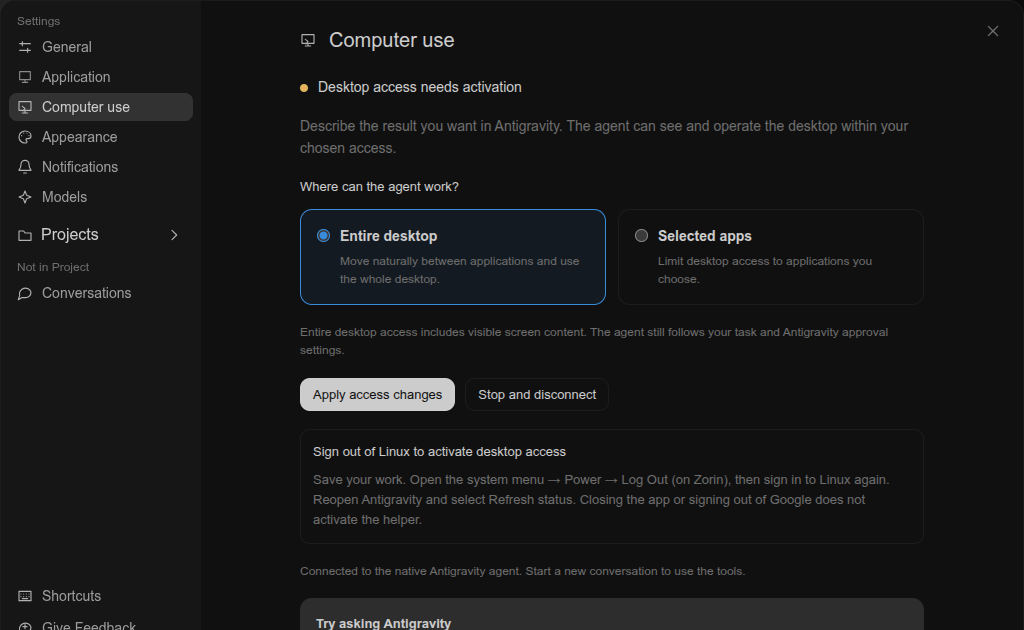
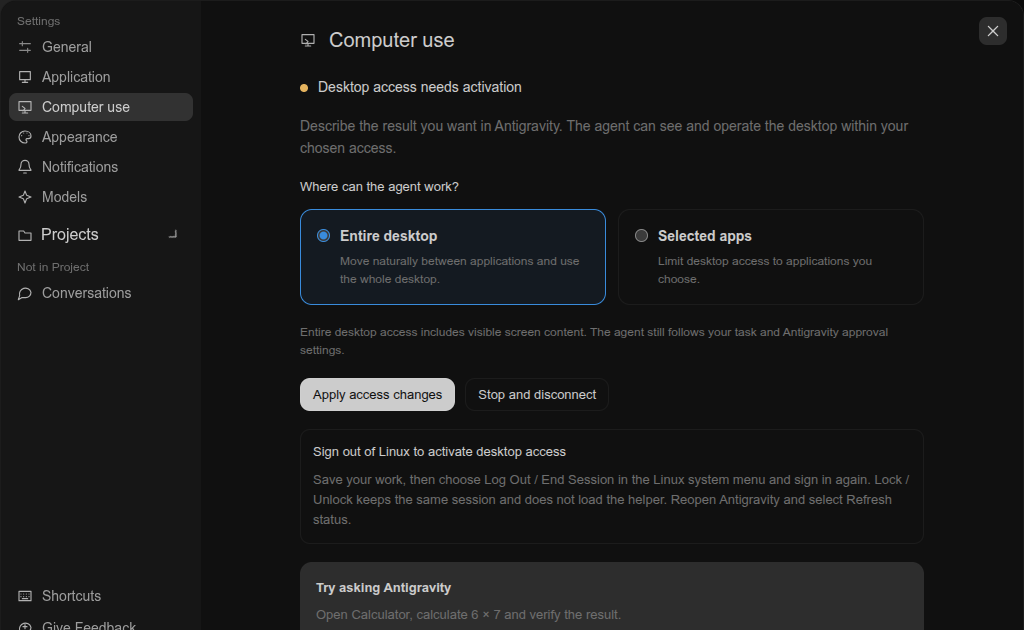
Clarify Linux logout and make computer-use removal explicit

Changed region(s): [[0.2812, 0.8746, 0.9062, 1.0], [0.3125, 0.754, 0.875, 0.8444], [0.9375, 0.0302, 1.0, 0.0905]]

diff --git a/common/computer-use-settings.js b/common/computer-use-settings.js
@@ -1,7 +1,7 @@
 /* Guided desktop access in a dedicated native Settings page. */
 (() => {
  'use strict';
- const VERSION = '1.3.0';
+ const VERSION = '1.3.1';
  if (globalThis.__AGComputerUse?.version === VERSION) return;
  globalThis.__AGComputerUse?.destroy();
  const i18n = globalThis.__AGPAI18n;
@@ -10,7 +10,7 @@
  const pending = new Map();
  let section, state = {}, busy = false, draft = typeof savedDraft === 'string' ? savedDraft : savedDraft?.apps;
  let scopeDraft = savedDraft?.scope, nativeRefresh = null, scheduled = false, destroyed = false, refreshing = false;
- let confirmRemoval = false, checksSignature = '';
+ let checksSignature = '';
  const errors = {
   selectApps: 'Choose at least one application executable.', invalidApp: 'Use an existing absolute executable path for each application.',
   serverConflict: 'This MCP server name is already used. Resolve the conflict in native MCP settings.',
@@ -35,23 +35,23 @@
   const working = busy || !!state.operation;
   t('[data-cu-connection]', state.operation === 'uninstall' ? 'Removing computer use…' : state.operation ? 'Preparing computer use…' : state.enabled ? state.needsHelper ? 'Desktop access needs activation' : 'Computer use is enabled' : 'Your agent, across your desktop');
   t('[data-cu-summary]', state.enabled ? 'Describe the result you want in Antigravity. The agent can see and operate the desktop within your chosen access.' : 'Let Antigravity work across your apps: explore, click, type and verify the result.');
-  t('[data-cu-driver]', state.installed ? 'Cua Driver {version} installed' : 'The setup installs the current reviewed Cua Driver for you.', {version: state.driverVersion || '—'});
   const loginRequired = state.needsHelper && state.helperInstalled && ['signInRequired', 'unknown'].includes(state.helperState);
   t('[data-cu-platform]', loginRequired ? 'Sign out of Linux to activate desktop access' : state.needsHelper ? state.helperInstalled ? 'The GNOME helper is disabled or could not load. Select Repair desktop helper, then refresh status.' : 'The setup will install the GNOME desktop helper. A new sign-in is required to activate it.' : state.session === 'wayland' ? 'Wayland: some apps require foreground input or additional desktop permission.' : state.experimental ? 'Windows support is experimental. Keep the target app visible in your desktop session.' : 'Desktop permissions may be requested when you first use an application.');
   section.querySelector('[data-cu-login-steps]').hidden = !loginRequired;
-  t('[data-cu-protocol]', state.protocol?.ok ? 'MCP handshake passed. Desktop actions still need verification.' : 'MCP connection has not been checked.');
   t('[data-cu-operation]', state.error ? (errors[state.error] || errors.operationFailed) : working ? 'Working…' : state.enabled ? nativeRefresh ? 'Connected to the native Antigravity agent. Start a new conversation to use the tools.' : 'Start a new agent conversation after connecting. If tools are missing, refresh native MCP settings.' : 'Choose access and enable computer use. Existing Antigravity approvals remain in effect.');
   t('[data-cu-connect]', working ? 'Preparing computer use…' : state.enabled ? 'Apply access changes' : 'Enable computer use');
   t('[data-cu-removal]', state.removal?.skillRetained ? 'Computer use removed. Your locally edited skill was kept; rename or remove it before setting up again.' : 'Computer use removed. Select Enable computer use for a fresh setup.');
   section.querySelector('[data-cu-removal]').hidden = !state.removal;
-  section.querySelector('[data-cu-confirm-removal]').hidden = !confirmRemoval;
   const checks = globalThis.__AGPAComputerUseChecks(state, globalThis.__AGNativeMcp?.status());
-  const checksKey = JSON.stringify([checks, i18n.language]);
+  const checksKey = JSON.stringify([checks, i18n.language, state.driverVersion, loginRequired]);
   if (checksKey !== checksSignature) {
    checksSignature = checksKey;
    section.querySelector('[data-cu-checks]').replaceChildren(...checks.map(check => {
     const icon = node('span', {class: `agpa-cu-check-icon ${check.passed ? 'passed' : 'pending'}`, 'aria-hidden': 'true', text: check.passed ? '✓' : '●'});
-    return node('li', {'data-cu-check-id': check.id, 'data-passed': String(check.passed)}, icon, node('span', {text: check.label}), node('span', {class:'agpa-cu-check-state', text: check.passed ? 'Passed' : 'Pending'}));
+    const label = node('span', {class:'agpa-cu-check-label'}, node('span', {text:check.label}));
+    if (check.id === 'driver' && state.installed) label.append(node('span', {class:'agpa-cu-check-version',text:state.driverVersion}));
+    if (check.id === 'desktop' && loginRequired) label.append(node('span', {class:'agpa-cu-check-help',text:'Log out of Linux, then sign back in. Locking and unlocking the screen is not enough.'}));
+    return node('li', {'data-cu-check-id': check.id, 'data-passed': String(check.passed)}, icon, label, node('span', {class:'agpa-cu-check-state', text: check.passed ? 'Passed' : 'Pending'}));
    }));
   }
   for (const input of section.querySelectorAll('[name=agpa-cu-scope]')) {input.checked = input.value === scope();input.disabled = working;}
@@ -132,15 +132,17 @@
    button.addEventListener('click', () => act(action));advancedActions.append(button);
   }
   const remove = node('button', {type:'button',class:'agpa-app-icon-option','data-cu-remove':'',text:'Remove computer use…'});
-  remove.addEventListener('click', () => {confirmRemoval = true;paint();section.querySelector('[data-cu-confirm-removal]').scrollIntoView({block:'nearest'});});
+  remove.addEventListener('click', () => {removal.showModal();cancel.focus();});
   advancedActions.append(remove);
   const cancel = node('button', {type:'button',class:'agpa-app-icon-option',text:'Cancel'});
-  cancel.addEventListener('click', () => {confirmRemoval = false;paint();});
-  const confirm = node('button', {type:'button',class:'agpa-app-icon-option','data-cu-remove-confirm':'',text:'Remove computer use'});
-  confirm.addEventListener('click', () => {confirmRemoval = false;act('uninstall');});
-  const removal = node('div', {class:'agpa-cu-notice','data-cu-confirm-removal':'',hidden:''},
+  cancel.addEventListener('click', () => removal.close());
+  const confirm = node('button', {type:'button',class:'agpa-app-icon-option agpa-cu-danger','data-cu-remove-confirm':'',text:'Remove computer use'});
+  confirm.addEventListener('click', () => {removal.close();act('uninstall');});
+  const removal = node('dialog', {class:'agpa-cu-confirm','data-cu-confirm-removal':'','aria-labelledby':'agpa-cu-remove-title','aria-describedby':'agpa-cu-remove-description'},
+   node('h3',{id:'agpa-cu-remove-title',text:'Remove computer use?'}),
+   node('div',{id:'agpa-cu-remove-description'},
    node('p',{text:'Remove the plugin-managed driver, MCP entry, generated skill and setup preferences? You can then enable computer use again to reinstall.'}),
-   node('p',{class:'agpa-cu-muted',text:'Other MCP servers, conversations and edited skills are kept. The shared GNOME helper and other Cua installations are kept.'}),
+   node('p',{class:'agpa-cu-muted',text:'Other MCP servers, conversations and edited skills are kept. The shared GNOME helper and other Cua installations are kept.'})),
    node('div',{class:'agpa-patch-actions'}, cancel,confirm));
   const examples = node('div', {class: 'agpa-cu-examples'}, node('strong', {text: 'Try asking Antigravity'}),
    node('p', {text: 'Open Calculator, calculate 6 × 7 and verify the result.'}),
@@ -151,11 +153,12 @@
    node('p', {class: 'agpa-cu-muted', text: 'Entire desktop access includes visible screen content. The agent still follows your task and Antigravity approval settings.'}),
    node('div', {class: 'agpa-patch-actions'}, enable, stop),
    node('div', {class: 'agpa-cu-notice'}, node('p', {'data-cu-platform': ''}),
-    node('p', {'data-cu-login-steps': '', text: 'Save your work. Open the system menu → Power → Log Out (on Zorin), then sign in to Linux again. Reopen Antigravity and select Refresh status. Closing the app or signing out of Google does not activate the helper.'})),
-   node('p', {class: 'agpa-app-icon-status', 'data-cu-operation': '', role: 'status', 'aria-live': 'polite'}), examples,
+    node('p', {'data-cu-login-steps': '', text: 'Save your work, then choose Log Out / End Session in the Linux system menu and sign in again. Lock / Unlock keeps the same session and does not load the helper. Reopen Antigravity and select Refresh status.'})),
+   examples,
    node('details', {class: 'agpa-cu-advanced'}, node('summary', {text: 'Connection details'}),
     node('ul', {class:'agpa-cu-checks','data-cu-checks':'','aria-label':'Connection checks'}),
-    node('p', {class: 'agpa-cu-muted', 'data-cu-driver': ''}), node('p', {class: 'agpa-cu-muted', 'data-cu-protocol': ''}), advancedActions,
+    advancedActions,
+    node('p', {class: 'agpa-app-icon-status', 'data-cu-operation': '', role: 'status', 'aria-live': 'polite'}),
     node('p', {class:'agpa-cu-muted',text:'Test screen capture reads the display once and discards the image. It does not test mouse or keyboard input.'}),
     removal,node('p',{class:'agpa-cu-notice','data-cu-removal':'',role:'status'}),
     node('p', {class: 'agpa-cu-muted', text: 'Available to the native Antigravity agent. The embedded Gemini website does not receive these tools.'}),
@@ -188,22 +191,35 @@
   .agpa-cu-notice [data-cu-platform]{color:var(--foreground,#ddd);font-weight:500}.agpa-cu-notice [data-cu-login-steps]{margin-top:8px}
   .agpa-cu-examples{padding:16px;border-radius:12px;background:var(--secondary,#1d1d1d);display:flex;flex-direction:column;gap:8px}
   .agpa-cu-examples p{color:var(--muted-foreground,#aaa)}.agpa-cu-advanced{border-top:1px solid var(--border,#353535);padding-top:16px}
-  .agpa-cu-advanced summary{cursor:pointer;color:var(--muted-foreground,#aaa)}.agpa-cu-advanced>*:not(summary){margin-top:12px}
+  .agpa-cu-advanced summary{cursor:pointer;color:var(--muted-foreground,#aaa)}.agpa-cu-advanced>*:not(summary):not(dialog){margin-top:12px}
   .agpa-cu-checks{padding:0;list-style:none;display:flex;flex-direction:column;gap:10px}
   .agpa-cu-checks li{display:flex;align-items:center;gap:10px;font-size:12px;line-height:1.5}
   .agpa-cu-check-icon{width:16px;text-align:center;flex-shrink:0}.agpa-cu-check-icon.passed{color:#55c98a;font-size:16px;font-weight:700}.agpa-cu-check-icon.pending{color:#e5ad4b;font-size:11px}
   .agpa-cu-check-state{margin-left:auto;color:var(--muted-foreground,#aaa);font-size:11px}
-  [data-cu-confirm-removal]{display:flex;flex-direction:column;gap:12px}
+  .agpa-cu-check-label{flex:1;min-width:0}.agpa-cu-check-version{margin-left:8px;color:var(--muted-foreground,#aaa)}
+  .agpa-cu-check-help{display:block;color:var(--foreground,#ddd);margin-top:5px;line-height:1.6}
+  .agpa-cu-confirm{position:fixed;inset:50% auto auto 50%;transform:translate(-50%,-50%);margin:0;box-sizing:border-box;width:min(480px,calc(100vw - 48px));padding:24px;border:1px solid var(--border,#444);border-radius:14px;background:var(--background,#171717);color:var(--foreground,#eee);font-family:inherit;font-size:13px;line-height:1.6}
+  .agpa-cu-confirm:not([open]){display:none}.agpa-cu-confirm[open]{display:flex;flex-direction:column;gap:18px}
+  .agpa-cu-confirm::backdrop{background:#0009}.agpa-cu-confirm h3{margin:0;font-size:15px;font-weight:600}
+  .agpa-cu-confirm p+p{margin-top:12px}.agpa-cu-confirm .agpa-patch-actions{justify-content:flex-end}
+  .agpa-cu-danger{color:#ef9898!important;border-color:#8e4d4d!important}
   @media(max-width:700px){.agpa-cu-scopes{grid-template-columns:1fr}}
  `});
  document.head.append(style);
  function schedule() {if (scheduled || destroyed) return;scheduled = true;queueMicrotask(() => {scheduled = false;apply();});}
  const observer = new MutationObserver(schedule);observer.observe(document.body, {subtree: true, childList: true});
  const interval = setInterval(() => {if (!section?.isConnected || !globalThis.__AGSettingsNavigation?.isOpen() || busy) return;request('status', true).then(receive).catch(() => {});}, 1500);
+ function dismissRemoval(event) {
+  const dialog = section?.querySelector('[data-cu-confirm-removal]');
+  if (event.key !== 'Escape' || !dialog?.open) return;
+  // The native Settings focus trap handles Escape too; dismiss only this dialog.
+  event.preventDefault();event.stopImmediatePropagation();dialog.close();
+ }
+ window.addEventListener('keydown', dismissRemoval, true);
  window.addEventListener('agpa:settings-page', schedule);
  const untranslate = i18n.subscribe(paint);
  globalThis.__AGComputerUse = {version: VERSION, status: () => ({...state, mounted: !!section?.isConnected}),
   onResult(id, ok, next) {const item = pending.get(id);if (!item) return;clearTimeout(item.timer);pending.delete(id);ok ? item.resolve(next) : item.reject(Error('operationFailed'));},
-  destroy() {globalThis.__AGPA_CU_DRAFT__ = {apps: section?.querySelector('textarea')?.value ?? draft, scope: scopeDraft};destroyed = true;observer.disconnect();clearInterval(interval);window.removeEventListener('agpa:settings-page', schedule);untranslate();for (const item of pending.values()) {clearTimeout(item.timer);item.reject(Error('stopped'));}pending.clear();section?.remove();style.remove();delete globalThis.__AGComputerUse;}};
+  destroy() {section?.querySelector('dialog[open]')?.close();globalThis.__AGPA_CU_DRAFT__ = {apps: section?.querySelector('textarea')?.value ?? draft, scope: scopeDraft};destroyed = true;observer.disconnect();clearInterval(interval);window.removeEventListener('keydown', dismissRemoval, true);window.removeEventListener('agpa:settings-page', schedule);untranslate();for (const item of pending.values()) {clearTimeout(item.timer);item.reject(Error('stopped'));}pending.clear();section?.remove();style.remove();delete globalThis.__AGComputerUse;}};
  schedule();
 })();

diff --git a/docs/COMPUTER_USE.md b/docs/COMPUTER_USE.md
@@ -7,7 +7,7 @@ Give the **native Antigravity agent** desktop tools through the maintained [Cua 
 1. Open **Settings → Computer use**, its own item in the Settings menu. Settings navigation has icons; its Projects group can be collapsed and uses your configured project appearance.
 2. Choose **Entire desktop** to work across your environment, or **Selected apps** for an application allowlist.
 3. Select **Enable computer use**. Setup downloads the reviewed driver, verifies its SHA-256, installs the GNOME helper when needed, writes this integration's MCP entry and skill, checks the protocol and asks Antigravity to refresh only this server.
-4. Follow any OS access prompt. On GNOME/Wayland, the helper needs a **Linux session logout/login once** to load. Save your work, open the system menu → Power → Log Out (on Zorin), then sign in to Linux again. Reopen Antigravity and select **Refresh status**. Closing the app or signing out of Google does not load the extension. The wizard never logs you out or restarts your apps.
+4. Follow any OS access prompt. On GNOME/Wayland, the helper needs a **Linux session logout/login once** to load. Save your work, open the system menu → Power → Log Out (on Zorin), then sign in to Linux again. Reopen Antigravity and select **Refresh status**. **Locking/unlocking the screen keeps the same Linux session and does not load the extension.** Closing the app or signing out of Google also does not load it. The wizard never logs you out or restarts your apps.
 5. Start a **new Antigravity conversation** and describe the result you want. Existing conversations can keep their earlier tool list.
 
 Try: “Open Calculator, calculate 6 × 7 and verify the displayed result.” The agent should observe **42 in the app**, rather than report only a successful tool call.
@@ -39,7 +39,7 @@ The platform disable scripts also disconnect computer use. In Selected apps mode
 
 ## ♻ Remove and set up again
 
-Open **Settings → Computer use → Connection details → Remove computer use…** and confirm. This revokes the connection, removes only the plugin's own MCP entry, deletes its verified managed driver, setup preferences and unchanged generated skill. Then choose **Enable computer use** to download and configure it again.
+Open **Settings → Computer use → Connection details → Remove computer use…** and confirm in the centered dialog. Cancel or press Escape to keep the setup. This revokes the connection, removes only the plugin's own MCP entry, deletes its verified managed driver, setup preferences and unchanged generated skill. Then choose **Enable computer use** to download and configure it again.
 
 Other MCP servers, conversations, Antigravity/Gemini data, other Cua installations and the **shared WinRects GNOME extension** remain untouched. A locally edited skill is preserved and reported: rename or remove it yourself before a fresh setup. Unrecognized driver folders or missing/invalid receipts stop removal instead of deleting unknown files. Use **Repair desktop helper** for a disabled or failed helper; reinstallation is unnecessary when it only needs the next Linux sign-in.
 
@@ -68,7 +68,7 @@ Windows is covered by adapter/configuration tests, release archive-layout verifi
 
 ## ✅ Validation boundaries
 
-Verified live on Linux: the dedicated Settings page, navigation icons, Projects collapse, scoped/full-desktop configuration, native Antigravity discovery of the reviewed tool set, protocol checks and disconnection. On GNOME/Wayland, the installed helper still requires the next desktop sign-in; a complete desktop calculation has not been verified in that session. An Xvfb test without a window manager did not establish GUI readiness. Windows remains experimental as described above.
+Verified live on Linux: the dedicated Settings page, navigation icons, Projects collapse, scoped/full-desktop configuration, native Antigravity discovery of the reviewed tool set, protocol checks, disconnection, confirmed removal and fresh reinstallation. On GNOME/Wayland, the installed helper still requires the next desktop sign-in; a complete desktop calculation has not been verified in that session. An Xvfb test without a window manager did not establish GUI readiness. Windows remains experimental as described above.
 
 ## 📚 References
 

diff --git a/README.md b/README.md
@@ -6,7 +6,7 @@
 
 # 🧩 Antigravity Plugin
 
-[![Version 1.1.1](https://img.shields.io/badge/version-1.1.1-blue)](CHANGELOG.md)
+[![Version 1.1.2](https://img.shields.io/badge/version-1.1.2-blue)](CHANGELOG.md)
 [![Checks](https://github.com/Riccardo-Vecchi/antigravity-plugin/actions/workflows/checks.yml/badge.svg?branch=main)](https://github.com/Riccardo-Vecchi/antigravity-plugin/actions/workflows/checks.yml)
 [![Linux verified](https://img.shields.io/badge/Linux-verified-brightgreen)](docs/CONFIGURATION.md)
 [![Windows experimental](https://img.shields.io/badge/Windows-experimental-orange)](windows/README.md)
@@ -74,7 +74,7 @@ Open **Antigravity (customized)** from the Start menu for subsequent launches. T
 
 **Computer use** has its own Settings page. Choose **Entire desktop** or **Selected apps**, then select **Enable computer use**: the wizard installs the reviewed driver and connects it to Antigravity over MCP. The wizard refreshes the native MCP server when the app supports it; start a new agent conversation after connecting. Linux is the primary implementation; Windows remains experimental. The embedded Gemini website does not receive desktop tools.
 
-On GNOME/Wayland, newly installed desktop access needs one **Linux logout/login**. The page explains the steps; closing the app or signing out of Google is insufficient. **Connection details** shows a green check for each passed check and an orange dot for pending checks. **Remove computer use…** resets the plugin-managed setup for reinstallation, preserving unrelated integrations and the shared GNOME helper.
+On GNOME/Wayland, newly installed desktop access needs one **Linux logout/login** (locking and unlocking is insufficient). The page explains the steps; closing the app or signing out of Google is insufficient. **Connection details** shows a green check for each passed check and an orange dot for pending checks. **Remove computer use…** resets the plugin-managed setup for reinstallation, preserving unrelated integrations and the shared GNOME helper.
 
 **Shortcuts** lets you record, save, reset or disable the view-switch shortcut. **Appearance** contains app-icon choices; **Application → Startup** contains launch behavior; **Application → Local customizations** contains status and recovery.
 

diff --git a/CHANGELOG.md b/CHANGELOG.md
@@ -1,5 +1,11 @@
 # Changelog
 
+## 1.1.2
+
+- Show Linux logout/login instructions directly beside the pending GNOME check and explain that lock/unlock keeps the same session.
+- Remove repeated driver/handshake status paragraphs and show the driver version in its check row.
+- Center computer-use removal in a modal confirmation with Cancel/Escape, visible progress and results beside the controls.
+
 ## 1.1.1
 
 - Replace the oversized desktop-activation title with a compact notice and explicit Linux logout/login instructions; distinguish installed GNOME files from a loaded extension.
